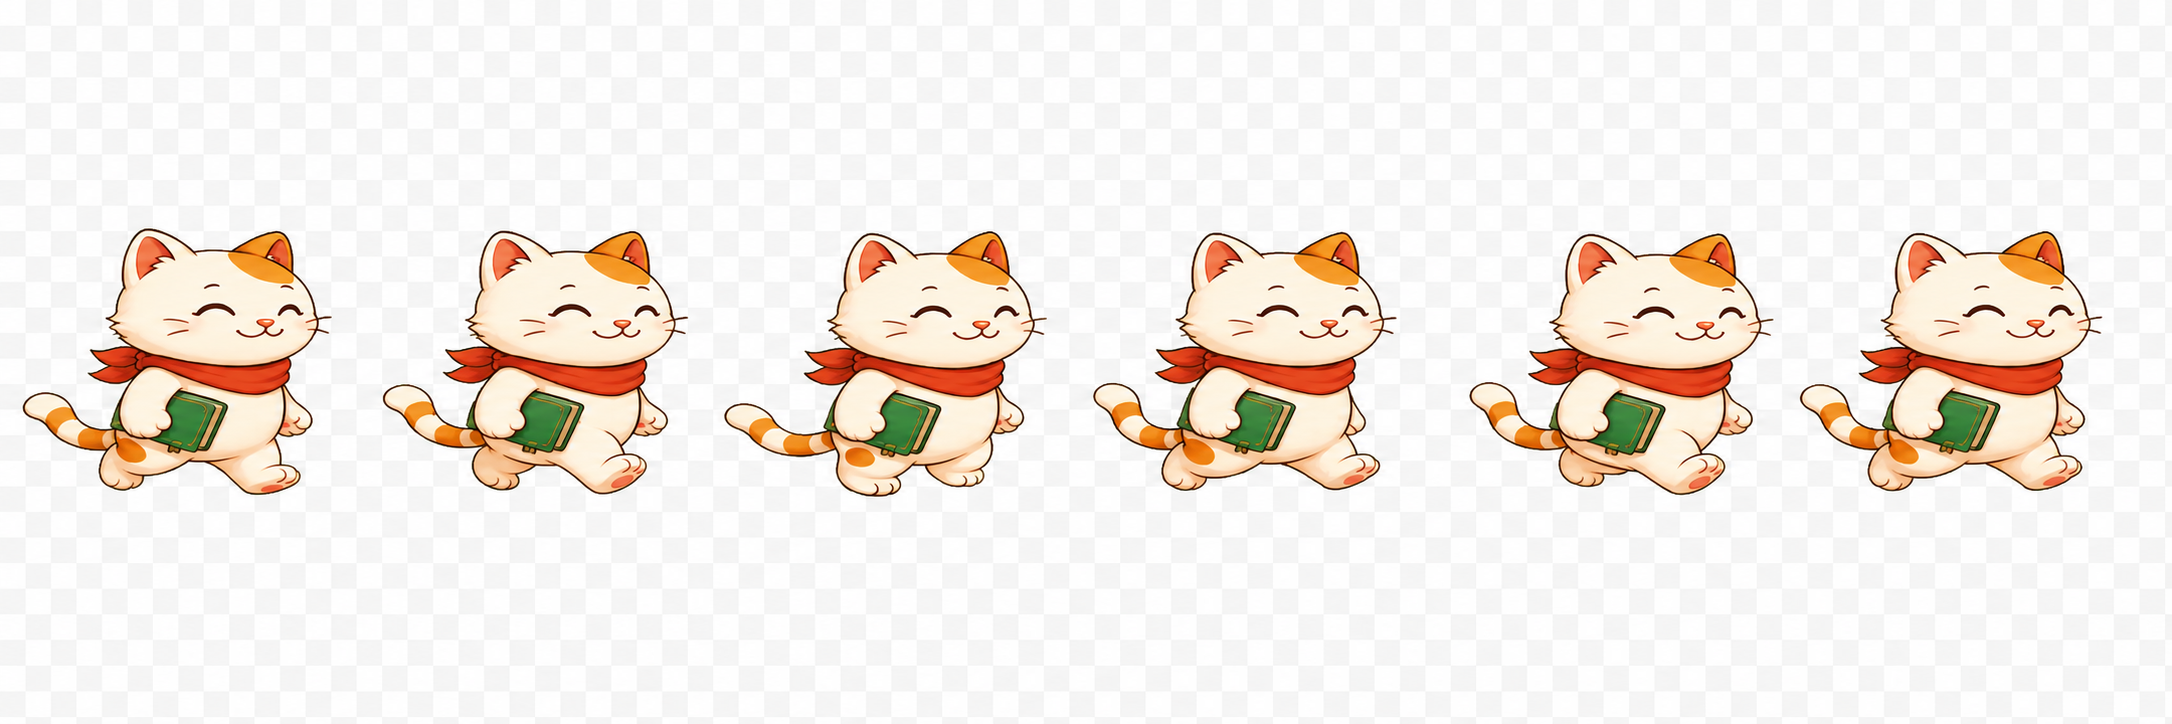
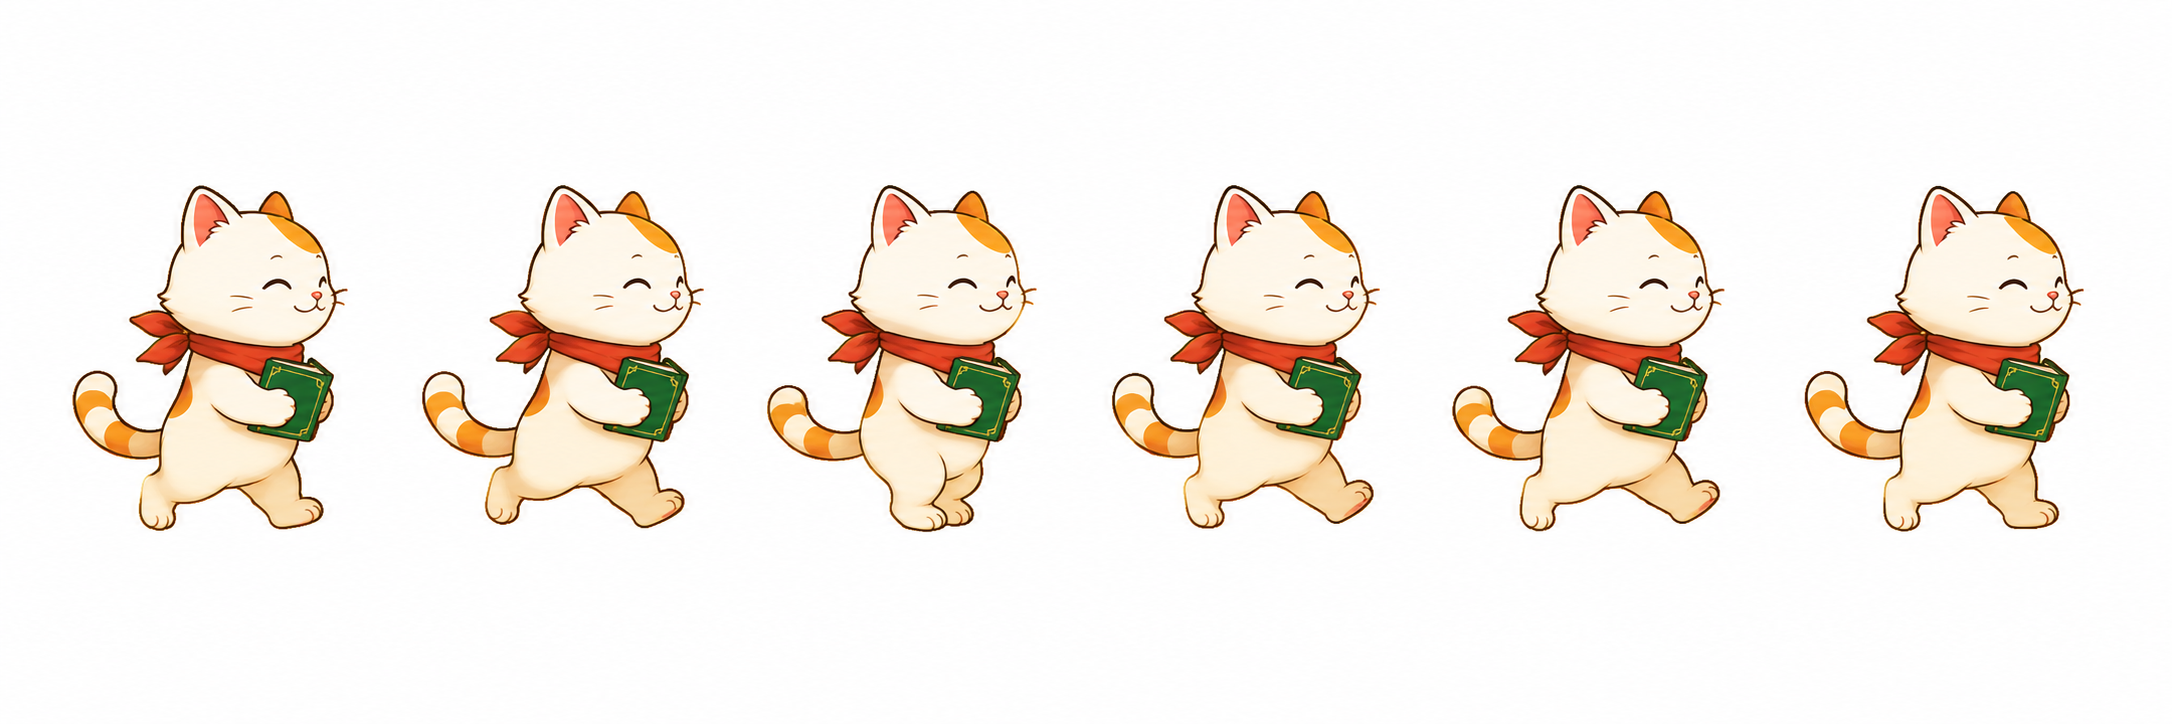
feat(art): clean-matte cat-walk v2 regen — fixes the #7 white halo
Intake of Jordan's regenerated walk sheet (crisp dark outline, flat-white bg per
docs/art/CAT-WALK-V2-REGEN-TASK.md). Repacked via scripts/repack_cat_sheets.py +
regenerated sprite-metrics.

- White anti-alias fringe on cat-walk cut from 19.6% → 5.1% of edge pixels
  (near cat-happy's clean 0.7%).
- New walk bbox (100×124) now matches cat-happy (99×127), so walk/happy size
  parity is natural in the art — the sprite-draw.js SCALE_ANCHOR is now a
  harmless no-op safety net rather than load-bearing.
- Updated the sprite-metrics regression guard to the re-measured cat-walk box.

1834/1834 tests green; verified in-game (no white rim, consistent size).

Changed region(s): [[0.0, 0.2431, 0.9871, 0.7293]]

diff --git a/test/sprite-metrics.test.js b/test/sprite-metrics.test.js
@@ -34,7 +34,10 @@ describe("SPRITE_METRICS", () => {
   it("matches known reference measurements (regression guard)", () => {
     // cat-walk/cat-happy remeasured after the v2 upright side-profile art
     // (regenerated to match the raccoon; repacked via scripts/repack_cat_sheets.py).
-    expect(SPRITE_METRICS["cat-walk"]).toEqual({ l: 70, t: 80, r: 185, b: 176 });
+    // cat-walk re-measured 2026-07-14 after the clean-matte walk regen (audit #7);
+    // its bbox now matches cat-happy's (100×124 ≈ 99×127) — the upright walk frames
+    // like the sitting pose, so size parity is natural, not just code-anchored.
+    expect(SPRITE_METRICS["cat-walk"]).toEqual({ l: 78, t: 65, r: 178, b: 189 });
     expect(SPRITE_METRICS["cat-happy"]).toEqual({ l: 78, t: 62, r: 177, b: 189 });
     expect(SPRITE_METRICS["raccoon-walk"]).toEqual({ l: 31, t: 12, r: 225, b: 244 });
     expect(SPRITE_METRICS["raccoon-happy"]).toEqual({ l: 8, t: 12, r: 248, b: 244 });

diff --git a/src/sprite-metrics.js b/src/sprite-metrics.js
@@ -23,7 +23,7 @@ export const SPRITE_METRICS = {
   "cat-ninja-walk": { l: 8, t: 57, r: 248, b: 244 },
   "cat-panda-happy": { l: 15, t: 12, r: 240, b: 244 },
   "cat-panda-walk": { l: 8, t: 53, r: 248, b: 244 },
-  "cat-walk": { l: 70, t: 80, r: 185, b: 176 },
+  "cat-walk": { l: 78, t: 65, r: 178, b: 189 },
   "raccoon-happy": { l: 8, t: 12, r: 248, b: 244 },
   "raccoon-walk": { l: 31, t: 12, r: 225, b: 244 },
 };

diff --git a/docs/art/CAT-WALK-V2-REGEN-TASK.md b/docs/art/CAT-WALK-V2-REGEN-TASK.md
@@ -1,8 +1,10 @@
 # Art task — regen `cat-walk` v2 (clean matte)  ·  audit #7
 
-**Status:** queued for Jordan (owner-gated art regen). Raised 2026-07-14 from the audit
-UI fixes round; the size half of #7 is already fixed in code (`src/sprite-draw.js`
-shared-scale anchoring). See `docs/planning/2026-07-14-audit-uiux-fixes-plan.md` §#7.
+**Status:** ✅ DONE 2026-07-14. Jordan dropped the clean-matte walk regen; intaken via
+`repack_cat_sheets.py` + `gen_sprite_metrics.py`. Halo cut from 19.6% → **5.1%** of edge
+pixels; new walk bbox (100×124) now matches cat-happy (99×127), so size parity is natural
+in the art (the `src/sprite-draw.js` anchor is now a harmless no-op safety net). 1834 tests
+green; verified in-game (no white rim, consistent size). Prompt used is below for the record.
 
 ## Defect
 
@@ -37,6 +39,40 @@ bbox height. If the walk sheet is being re-rendered anyway, framing it to fill t
 more like the purchased skins (which fill ~l8–28 / t12 / b244) would let the auto-metrics
 normalize the default cat exactly like every skin and make the code anchor redundant — but
 that is a cleanup, not a blocker.
+
+## Generation prompt (copy-paste)
+
+The halo is really a **matte** problem: the generator ships opaque on a near-white
+background, and `scripts/repack_cat_sheets.py` flood-fills that to transparent — but
+anti-aliased edge pixels that are *fur-colour blended toward white* aren't "neutral
+near-white", so they survive as a light rim. The fix in the prompt is a **crisp
+continuous dark outline + pure-flat-white background + no shadow/glow**, so the outermost
+ring is the dark outline (a clean flood-fill barrier) and any residual fringe reads dark,
+not white.
+
+> A cheerful calico lucky cat walking in a **side profile facing right**, in the same
+> warm storybook watercolour-flat hybrid style, proportions, and scale as the current
+> game cat and the raccoon character. White body with orange-and-brown patches, a **red
+> neckerchief/scarf**, holding a small **jade-green book** — friendly and upright, not
+> crawling. A **6-frame horizontal walking cycle**, each frame the full character on a
+> stable foot baseline, identical markings, scarf, and book on every frame (no
+> frame-to-frame colour or costume drift), with a **clear blank gap between each frame**.
+> Every frame has a **crisp, continuous dark-brown outline** around the whole silhouette —
+> no soft, feathered, or glowing edges. **Pure flat white (#FFFFFF) background, perfectly
+> uniform — no gradient, no vignette, no drop shadow, no ground/contact shadow, no ambient
+> glow.** Match the pose scale and foot baseline of the existing clean `cat-happy` sitting
+> pose so the walk and happy poses read at the same size.
+
+Notes:
+- **Match `cat-happy.png` for orientation, palette, scarf, and scale** — it is the clean
+  reference; only the walk sheet needs redoing. (If you'd rather redo both for perfectly
+  consistent framing, use the same prompt with "a 4-frame happy sitting/celebration cycle"
+  and drop both into the intake.)
+- The generator's canvas size doesn't matter — `repack_cat_sheets.py` re-slices on the
+  blank gutters between frames, so the **clear gap between frames** is what matters.
+- If a faint rim still survives the keyer, that's a pipeline gap, not a prompt gap — the
+  guaranteed fix is an edge de-matte pass in `remove_background()` (un-multiply white from
+  partial-alpha edge pixels); ask Claude to add it.
 
 ## After the new PNG lands
 